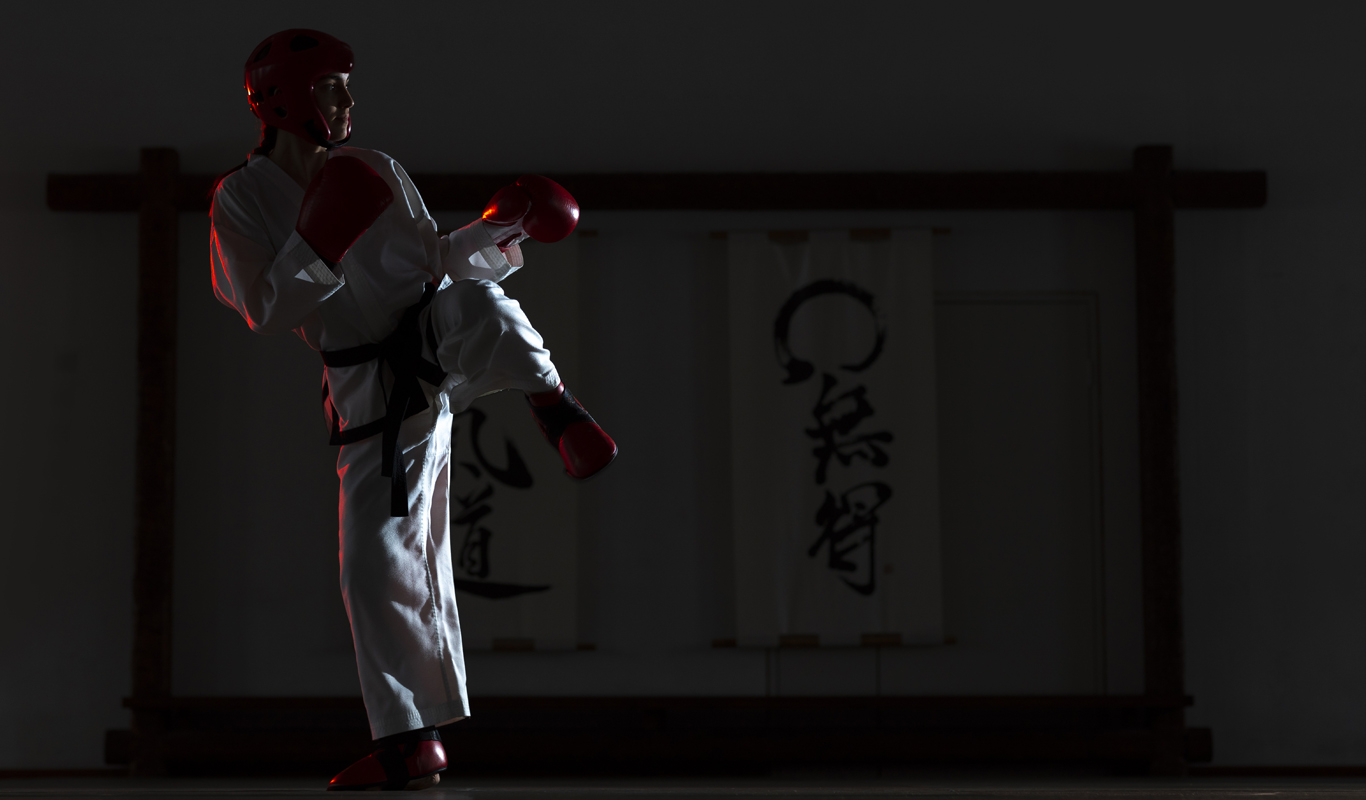
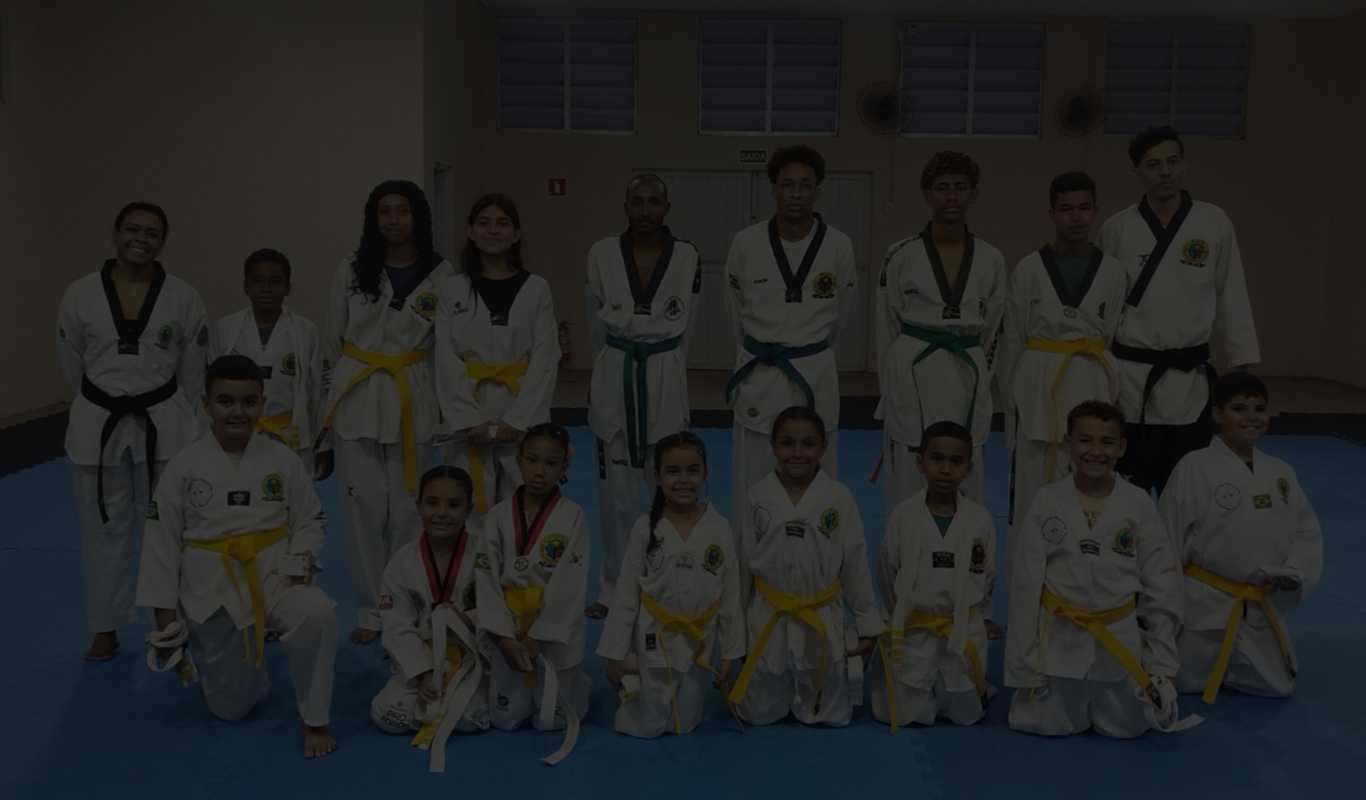
Add files via upload

diff --git a/index.html b/index.html
@@ -54,8 +54,7 @@
                     <img class="w-100" src="img/carousel-1.jpg" alt="Image">
                     <div class="carousel-caption d-flex flex-column align-items-center justify-content-center">
                         <h3 class="text-primary  text-capitalize m-0">Overtake Assessoria Esportiva</h3>
-                        <h2 class="display-2 m-0 mt-2 mt-md-4 text-white font-weight-bold text-capitalize">Kombat
-                            Taekwondo</h2>
+                        <h2 class="display-2 m-0 mt-2 mt-md-4 text-white font-weight-bold text-capitalize">Projeto Social</h2>
                         <a href="blog.html" class="btn btn-lg btn-outline-light mt-3 mt-md-5 py-md-3 px-md-5">Saiba
                             mais</a>
                     </div>
@@ -64,7 +63,7 @@
                     <img class="w-100" src="img/carousel-2.jpg" alt="Image">
                     <div class="carousel-caption d-flex flex-column align-items-center justify-content-center">
                         <h3 class="text-primary text-capitalize m-0">Overtake Assessoria Esportiva</h3>
-                        <h2 class="display-2 m-0 mt-2 mt-md-4 text-white font-weight-bold text-capitalize">Taekwondo WT
+                        <h2 class="display-2 m-0 mt-2 mt-md-4 text-white font-weight-bold text-capitalize">Atletas
                         </h2>
                         <a href="feature.html" class="btn btn-lg btn-outline-light mt-3 mt-md-5 py-md-3 px-md-5">Saiba
                             mais</a>
@@ -89,9 +88,9 @@
                 <div
                     class="gym-class-box d-flex flex-column align-items-end justify-content-center bg-primary text-right text-white py-5 px-5">
                     <i class="flaticon-six-pack"></i>
-                    <h3 class="display-4 mb-3 text-white font-weight-bold">Kombat Taekwondo</h3>
-                    <p>Primeira Liga de Taekwondo Profissional do Mundo.</p>
-                    <p>Primeira Academia Licenciada no Kombat Taekwondo no Estado de São Paulo e a segunda do país.</p>
+                    <h3 class="display-4 mb-3 text-white font-weight-bold">PROJETO SOCIAL</h3>
+                    <p>Esporte ao alcance de todos.</p>
+                    <p>Oferecer melhor qualidade de vida, incentivar a interação social, trabalhar a cidadania e promover a emancipação social através do esporte.</p>
                     <a href="" class="btn btn-lg btn-outline-light mt-4 px-4">Saiba mais</a>
                 </div>
             </div>
@@ -99,9 +98,9 @@
                 <div
                     class="gym-class-box d-flex flex-column align-items-start justify-content-center bg-secondary text-left text-white py-5 px-5">
                     <i class="flaticon-bodybuilding"></i>
-                    <h3 class="display-4 mb-3 text-white font-weight-bold">Taekwondo WT</h3>
-                    <p>Academia afiliada ao Bang Taekwondo Clube.</p>
-                    <p>Projeto Social em atividade desde 2002.</p>
+                    <h3 class="display-4 mb-3 text-white font-weight-bold">ATLETAS</h3>
+                    <p>Conheça nossos alunos do projeto social.</p>
+                    <p>Incentive o esporte.</p>
                     <a href="" class="btn btn-lg btn-outline-light mt-4 px-4">Saiba mais</a>
                 </div>
             </div>
@@ -122,13 +121,13 @@
                 <div class="row py-2">
                     <div class="col-sm-6">
                         <i class="flaticon-medal display-2 text-primary"></i>
-                        <h4 class="font-weight-bold">Certificados pelo Kukkiwon.</h4>
-                        <p>Quartel General do Taekwondo Mundial.</p>
+                        <h4 class="font-weight-bold">Formação Superior.</h4>
+                        <p>Professores formados em Educação Física.</p>
                     </div>
                     <div class="col-sm-6">
                         <i class="flaticon-support display-2 text-primary"></i>
-                        <h4 class="font-weight-bold">Licenciado pelo Kombat Taekwondo.</h4>
-                        <p>Liga Profissional de Taekwondo.</p>
+                        <h4 class="font-weight-bold">Filiados a Federação Estadual.</h4>
+                        <p>Mestre e alunos registrados.</p>
                     </div>
                 </div>
             </div>
@@ -189,8 +188,8 @@
                         </div>
                         <div class="col-sm-7">
                             <h4 class="font-weight-bold">Academia Licenciada</h4>
-                            <p>Somos filiados a Bang Taekwondo Club uma das primeiras academias de Taekwondo no Brasil e
-                                também somos licenciados pelo Kombat Taekwondo.</p>
+                            <p>Somos oriundos da Bang Taekwondo Club uma das primeiras academias de Taekwondo no Brasil e
+                                também somos licenciados pela FETESP e Kombat Taekwondo.</p>
                         </div>
                     </div>
                 </div>

diff --git a/blog.html b/blog.html
@@ -51,11 +51,11 @@
     <div class="container-fluid page-header mb-5">
         <div class="d-flex flex-column align-items-center justify-content-center pt-0 pt-lg-5"
             style="min-height: 400px">
-            <h4 class="display-4 mb-3 mt-0 mt-lg-5 text-white text-uppercase font-weight-bold">Kombat Taekwondo</h4>
+            <h4 class="display-4 mb-3 mt-0 mt-lg-5 text-white text-uppercase font-weight-bold">PROJETO SOCIAL</h4>
             <div class="d-inline-flex">
                 <p class="m-0 text-white"><a class="text-white" href="">Home</a></p>
                 <p class="m-0 text-white px-2">/</p>
-                <p class="m-0 text-white">Nova Era</p>
+                <p class="m-0 text-white">VERA CRUZ/SP</p>
             </div>
         </div>
     </div>
@@ -65,8 +65,8 @@
     <!-- Blog Start -->
     <div class="container pt-5">
         <div class="d-flex flex-column text-center mb-5">
-            <h4 class="text-primary font-weight-bold">Kombat Taekwondo</h4>
-            <h4 class="display-4 font-weight-bold">A nova era do Taekwondo Mundial</h4>
+            <h4 class="text-primary font-weight-bold">Projeto Social - Vera Cruz/SP</h4>
+            <h4 class="display-4 font-weight-bold">Esporte ao alcance de todos.</h4>
         </div>
         <div class="row">
             <div class="col-12 mb-5 blog-item">
@@ -74,11 +74,18 @@
                 <div class="d-flex align-items-center mb-4">                                     
                 </div>
                 <div class="pl-3">
-                    <center><h3 class="font-weight-bold">O que é o Kombat Taekwondo?</h3></center>
+                    <center><h3 class="font-weight-bold">O PROJETO</h3></center>
                      
                  </div>
-                <p>Ao contrário do que muitos pensam o Kombat não é uma federação e nem um estilo novo, o Kombat é uma liga esportiva profissional.</p>       
-                <p>Fundado pelo  GM Rick W. Shin, o Kombat Taekwondo é uma empresa independente que visa desenvolver o Taekwondo de forma profissional.</p>
+<p>O Projeto “Esporte ao alcance de todos” é uma ferramenta de inclusão social utilizada pelo Taekwondo, Vera Cruz objetivando a emancipação social dos cidadãos e cidadãs veracruzenses desde a infância.</p>
+<p>Atualmente o projeto conta com mais de 50 atletas cadastrados e frequentando as aulas, desde crianças a partir dos 05 anos de idade até adultos.</p>
+<p>O Taekwondo é a mais antiga arte marcial existente, tendo surgido na Coréia há aproximadamente dois mil anos. Teve influência no surgimento de outras artes, segundo alguns documentos históricos e gravuras em túmulos e paredes de templos encontrados no referido país. A terminologia taekwondo significa “caminho dos pés e das mãos”.</p>
+<p>No Brasil, especificamente no município de São Paulo/SP, o Taekwondo teve início no ano de 1970 pelo grão-mestre Sang Min Cho, enviado oficialmente pela International Taekwondo Federation. Posteriormente, a arte foi disseminada pelos mestres Sang Min Kim, Kun Mo Bang, Kum Joon entre outros; e assim, sucessivamente até os dias atuais.</p>
+<p>Os princípios do taekwondo são: cortesia, integridade, autocontrole e espírito indomável; devendo ser trabalhados com todos os atletas que iniciam suas práticas nesta arte.</p>
+<p>No município de Vera Cruz/SP, o projeto de Taekwondo iniciou suas atividades no ano de 2002 através do Programa Saúde da Família - PSF como uma proposta de acolhimento para a comunidade, em atendimento às Normas do Ministério da Saúde – MS.</p>
+<p>Em setembro do ano de 2013 foi fundada a Associação Vera Cruz de Taekwondo, pessoa jurídica sem fins lucrativos, oferecendo a população veracruzense um espaço de convivência e apreensão de valores sociais através do esporte.</p>
+<p>As aulas acontecem na Rua José Bonifácio, 410, neste município de Vera Cruz/SP, no salão Amadeu Deoti localizado na Avenida Paulista nº 492, às segundas, quartas e sábados.</p>
+<p>O projeto atende um público de cinquenta e cinco atletas entre crianças, adolescentes e adultos, e os atendimentos sociais se estendem aos familiares.</p>
                          
             </div>
             

diff --git a/feature.html b/feature.html
@@ -51,11 +51,11 @@
     <div class="container-fluid page-header mb-5">
         <div class="d-flex flex-column align-items-center justify-content-center pt-0 pt-lg-5"
             style="min-height: 400px">
-            <h4 class="display-4 mb-3 mt-0 mt-lg-5 text-white text-uppercase font-weight-bold">Taekwondo WT</h4>
+            <h4 class="display-4 mb-3 mt-0 mt-lg-5 text-white text-uppercase font-weight-bold">Atletas - OVERTAKE</h4>
             <div class="d-inline-flex">
                 <p class="m-0 text-white"><a class="text-white" href="">Home</a></p>
                 <p class="m-0 text-white px-2">/</p>
-                <p class="m-0 text-white">Taekwondo Olímpico</p>
+                <p class="m-0 text-white">Overtake Taekwondo Club</p>
             </div>
         </div>
     </div>
@@ -65,16 +65,13 @@
     <!-- Blog Start -->
     <div class="container pt-5">
         <div class="d-flex flex-column text-center mb-5">
-            <h4 class="text-primary font-weight-bold">Taekwondo WT</h4>
-            <h4 class="display-4 font-weight-bold">Taekwondo modalidade olímpica</h4>
+            <h4 class="text-primary font-weight-bold">Atletas</h4>
+
         </div>
         <div class="row">
             <div class="col-12 mb-5 blog-item">
-                <center><img class="img-fluid mb-4" src="img/blog-2.jpg" alt="Image"></center>
-                <div class="d-flex align-items-center mb-4">                                     
-                </div>
-                <div class="pl-3">
-                    <center><h3 class="font-weight-bold">O que é o Taekwondo?</h3></center>
+                
+                    
                      
                  </div>
                 <p>É uma arte marcial sul-coreana que originou um esporte de combate. Hoje em dia, é um desporto difundido em todos os continentes.</p>       

diff --git a/about.html b/about.html
@@ -76,13 +76,13 @@
                 <div class="row py-2">
                     <div class="col-sm-6">
                         <i class="flaticon-medal display-2 text-primary"></i>
-                        <h4 class="font-weight-bold">Certificados pelo Kukkiwon.</h4>
-                        <p>Quartel General do Taekwondo Mundial.</p>
+                        <h4 class="font-weight-bold">Formação Superior</h4>
+                        <p>Professores formados em Educação Física.</p>
                     </div>
                     <div class="col-sm-6">
                         <i class="flaticon-support display-2 text-primary"></i>
-                        <h4 class="font-weight-bold">Licenciado pelo Kombat Taekwondo.</h4>
-                        <p>Liga Profissional de Taekwondo.</p>
+                        <h4 class="font-weight-bold">Filiados a Federação Estadual.</h4>
+                        <p>Mestre e alunos registrados.</p>
                     </div>
                 </div>
             </div>
